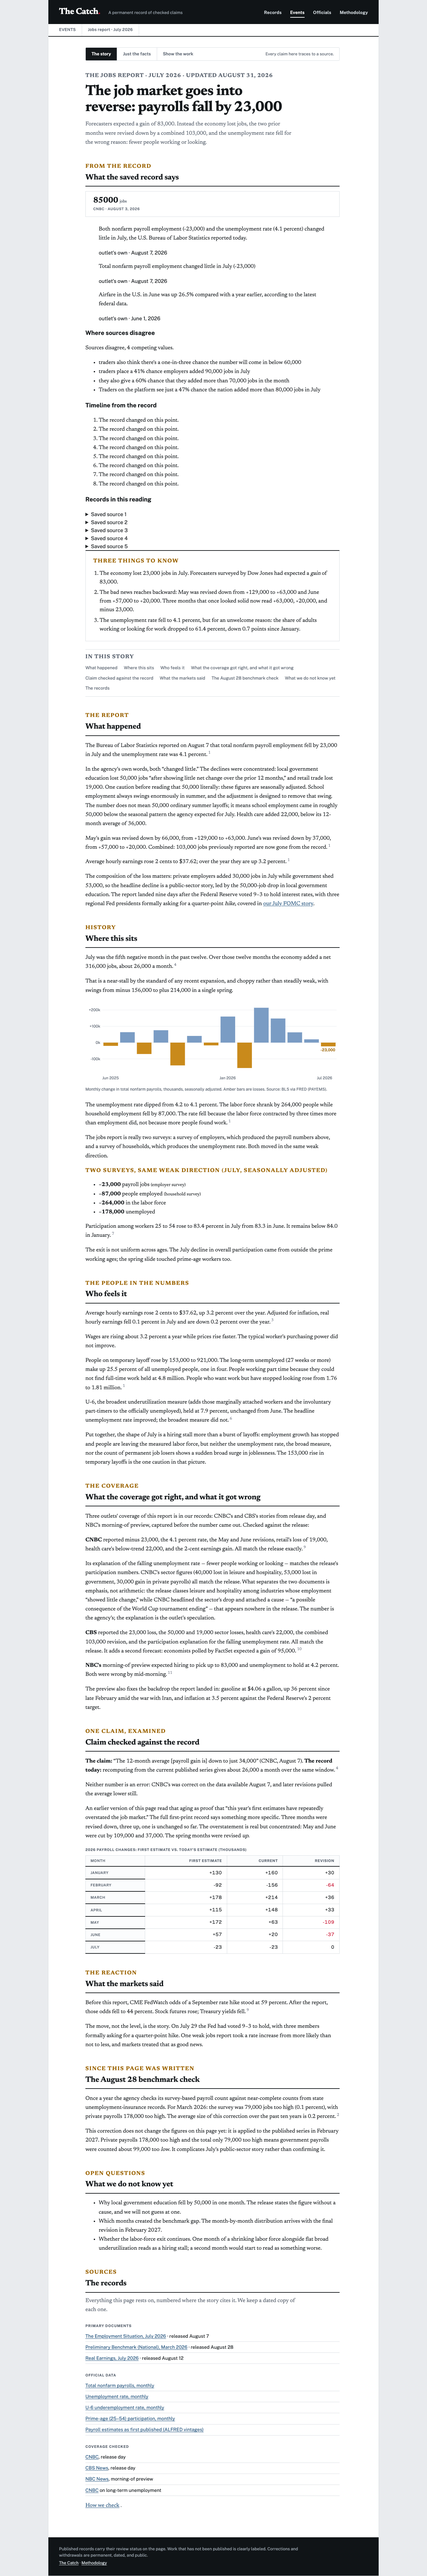
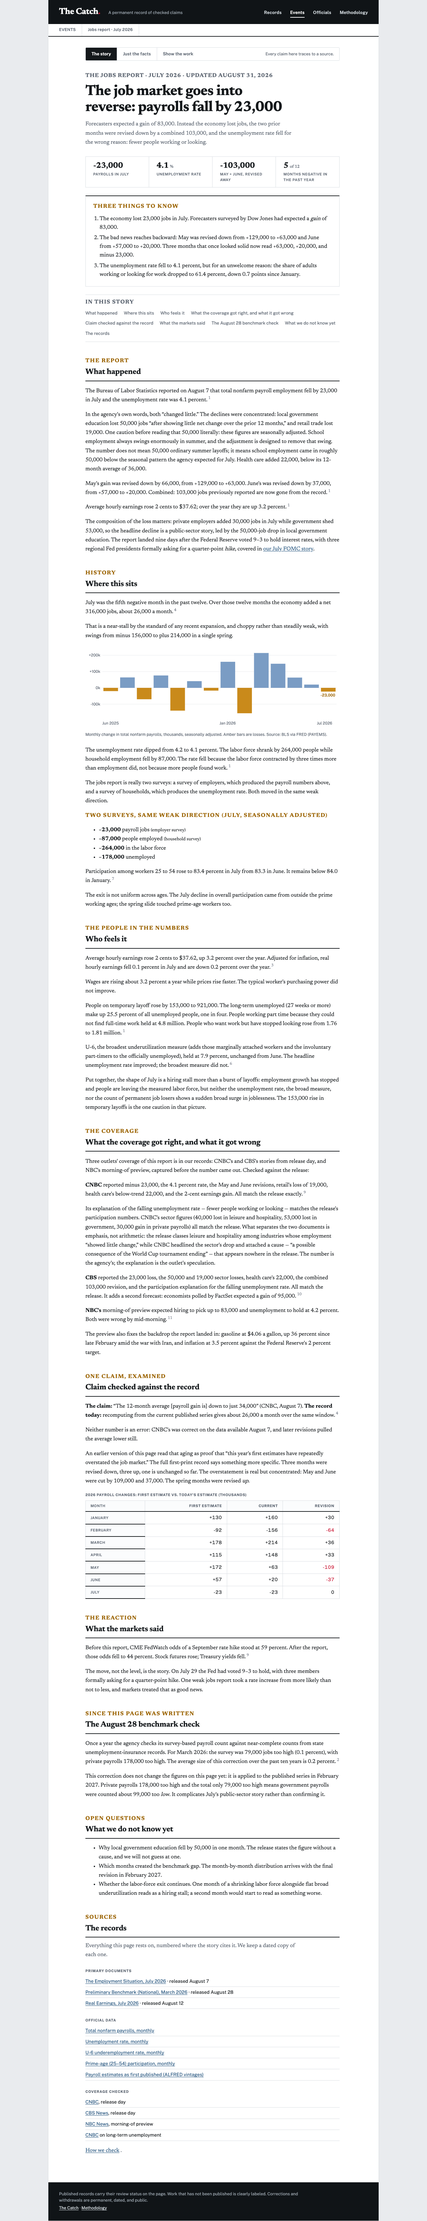
fix: verify existing event strips against folds

Changed region(s): [[0.0938, 0.0, 0.9062, 1.0]]

diff --git a/docs/ATRIUM-td-2ed160-report.md b/docs/ATRIUM-td-2ed160-report.md
@@ -2,7 +2,7 @@
 
 ## Reader-facing result
 
-Each of the three event pages now begins with figures, source statements, disagreements, a timeline, and saved-source passages drawn from its committed state view. Numbers appear only where the view carries a structured figure. Other statements remain the source's words.
+The three event pages retain their existing KPI strip, Three Things, story, chart, and records form. The committed fold views are used only by the build gate to verify the visible strip figures.
 
 ## td-4c9880: corroboration pins
 
@@ -15,27 +15,27 @@ Each of the three event pages now begins with figures, source statements, disagr
 
 One excerpt page reads: “Saved passage from the corroboration check,” followed by the title, publisher/date, and the captured passage. It does not call the passage a full saved copy.
 
-## td-2ed160: fold rendering
+## td-2ed160: fold verification
 
-| Page | Current slots | Structured figures | Quote-only heads | Disputed slots | Built figure coverage |
+| Page | Current slots | Structured figures | Quote-only heads | Disputed slots | Strip figures with accepted match |
 |---|---:|---:|---:|---:|---:|
-| Fed rate, June | 16 | 5 | 4 | 7 | 5/5 |
-| Fed rate, July | 17 | 4 | 8 | 5 | 4/4 |
-| Jobs, July | 5 | 1 | 3 | 1 | 1/1 |
+| Fed rate, June | 16 | 5 | 4 | 7 | 1/4 |
+| Fed rate, July | 17 | 4 | 8 | 5 | 0/4 |
+| Jobs, July | 5 | 1 | 3 | 1 | 0/4 |
 
-The counts above were recounted from `data/state/` and the built `dist` figure attributes in this session. The merged records build printed `1,216 (1,043 claim-source + 173 corroboration)`.
+The counts above were recounted from `data/state/` and the visible four-number strips in this session. The merged records build printed `1,216 (1,043 claim-source + 173 corroboration)`.
 
-The checker reads each built `data-derived-figure` and matches its occurrence id, value, and unit to an accepted occurrence in the corresponding committed view. A deliberate edit of June’s `12-0` to `12-1` failed with: `/events/fed-rate/june-2026/: derived figure 12-1 does not match an accepted fold occurrence`; the final full build restored it and passed.
+The checker reads each page's existing KPI data at build time and requires an accepted occurrence with the same value, unit, and period. It names every absence. The corrected contract is typed-blocked by 11 absent figures out of 12: June 3/4 absent, July 4/4 absent, Jobs 4/4 absent. A deliberate edit of June’s `12–0` to `12–1` failed with: `/events/fed-rate/june-2026/: strip figure 12–1 has no accepted fold occurrence with the same value, unit, and period`; the source was restored.
 
 Screenshots:
 
 - Before: `docs/td-2ed160-before/fed-rate-june-2026.png`, `fed-rate-july-2026.png`, `jobs-july-2026.png` from commit `716a41a`.
-- After: `docs/td-2ed160-after/fed-rate-june-2026.png`, `fed-rate-july-2026.png`, `jobs-july-2026.png` from the detached local preview after the green build.
+- After: `docs/td-2ed160-after/fed-rate-june-2026.png`, `fed-rate-july-2026.png`, `jobs-july-2026.png` from the detached local preview. Each retains the same above-story form as the committed baseline: KPI strip, Three Things, and story opening.
 
-Typed risks rendered through: the fold retains every near-duplicate slot rather than choosing one by hand, including the July dissent variants and the Jobs `us_airfare_price_change` slot. No slot was removed or amended in site code.
+Findings for LENS, not fixed here: the Jobs fold head is the CNBC August 3 forecast of `85,000` jobs, occurrence `occurrence-c4c2a335d7a1f67158b74a7e1037b802255d5576b8bfce093b09fa2bad482f64-7697d6ec0fac808b`. The attached June 1 airfare quote is occurrence `occurrence-193c2558ce5861a54205fa40a8ca0e4d7c200e972c0060f2a95ff65618d54fca-4a9246235ff29a8b`. No slot or occurrence was changed in site code.
 
 ## Final verification
 
-`npm run build` passed with: `event gate passed: 3 story page(s) manifested, mechanical checks clean`.
+`npm run build` intentionally fails under the corrected gate with 11 named strip figures that lack accepted fold occurrences. The Astro build itself completes, and the output is suitable for the local preview screenshots; the event gate remains the typed blocker.
 
 No deploy or push occurred. Review is required before any push.
